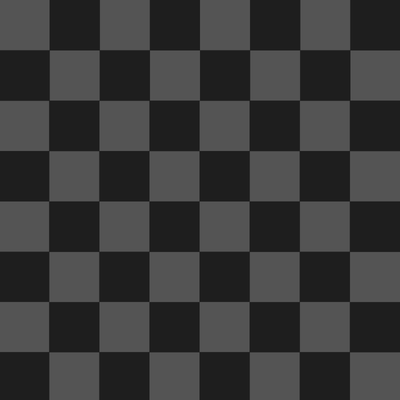
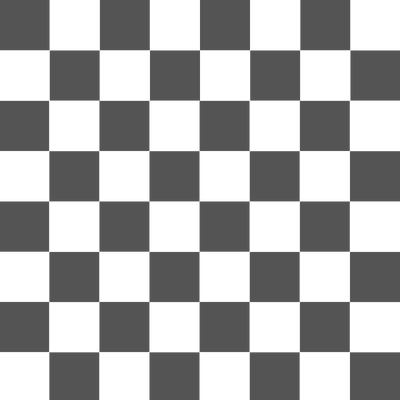
POTENTIAL BACKGROUND

diff --git a/src/components/chess-background/chess-background.script.js b/src/components/chess-background/chess-background.script.js
@@ -1,0 +1,84 @@
+const images_pieces_names = [
+    'pawn_b',
+    'pawn_w',
+    'knight_b',
+    'knight_w',
+    'bishop_b',
+    'bishop_w',
+    'rook_b',
+    'rook_w',
+    'king_b',
+    'king_w',
+    'queen_b',
+    'queen_w'
+];
+const fallingPieces = [];
+
+var load_images = [];
+
+export const init = (canvas) => {
+    for (let i = 0; i < 10; i++) {
+        fallingPieces.push(createPiece(canvas));
+    }
+}
+
+export const preloadAllImages = async () => {
+    try {
+        const images = await Promise.all(images_pieces_names.map(name => loadImage(`src/assets/chess-background-pieces/${name}.png`)));
+        load_images = images
+    } catch (err) {
+        console.error("One or more images failed to load:", err)
+    }
+};
+
+export const loadImage = (src) => {
+    return new Promise((resolve, reject) => {
+        const img = new Image()
+        img.crossOrigin = "Anonymous"
+        img.onload = () => resolve(img)
+        img.onerror = () => reject(new Error(`Failed to load: ${src}`))
+        img.src = src
+    });
+}
+
+export const createPiece = (canvas) => {
+
+    const image_index = Math.floor(Math.random() * load_images.length)
+    const image = load_images[image_index]
+
+    return {
+        x: Math.random() * canvas.width,
+        y: -50,
+        speed: 0.5 + Math.random() * 0.5,
+        size: 30 + Math.random() * 30,
+        image: image,
+        opacity: 0.5 + Math.random() * 0.5,
+    };
+}
+
+export const draw = async (canvas, ctx) => {
+  ctx.clearRect(0, 0, canvas.width, canvas.height);
+
+  for (let p of fallingPieces) {
+
+    ctx.globalAlpha = p.opacity
+    ctx.drawImage(p.image, p.x, p.y, p.size, p.size)
+    ctx.globalAlpha = 1.0
+
+    p.y += p.speed;
+
+    if (p.y > canvas.height) {
+      Object.assign(p, await createPiece(canvas));
+      p.y = -30;
+    }
+  }
+
+  requestAnimationFrame(() => draw(canvas, ctx));
+}
+
+export const addResizeListener = (canvas) => {
+    window.addEventListener('resize', () => {
+        canvas.width = window.innerWidth;
+        canvas.height = window.innerHeight;
+    });
+}

diff --git a/src/components/chess-background/chess-background.script_2.js b/src/components/chess-background/chess-background.script_2.js
@@ -1,0 +1,49 @@
+export const characters = [
+    '0',
+    '1'
+];
+export const fallingCharacters = [];
+
+export const init = (canvas) => {
+    for (let i = 0; i < 50; i++) {
+        fallingCharacters.push(createCharacter(canvas));
+    }
+}
+
+export const createCharacter = (canvas) => {
+    return {
+        x: Math.random() * canvas.width,
+        y: -30,
+        speed: 0 + Math.random() * 1,
+        size: 24 + Math.random() * 16,
+        character: characters[Math.floor(Math.random() * characters.length)],
+        opacity: 0 + Math.random() * 0.5,
+      };
+}
+
+export const draw = (canvas, ctx) => {
+  ctx.clearRect(0, 0, canvas.width, canvas.height);
+
+  for (let p of fallingCharacters) {
+
+    ctx.font = `${p.size}px Poppins`;
+    ctx.fillStyle = `rgba(0, 181, 0, ${p.opacity})`;
+    ctx.fillText(p.character, p.x, p.y);
+
+    p.y += p.speed;
+
+    if (p.y > canvas.height) {
+      Object.assign(p, createCharacter(canvas));
+      p.y = -30;
+    }
+  }
+
+  requestAnimationFrame(() => draw(canvas, ctx));
+}
+
+export const addResizeListener = (canvas) => {
+    window.addEventListener('resize', () => {
+        canvas.width = window.innerWidth;
+        canvas.height = window.innerHeight;
+    });
+}

diff --git a/src/components/chess-background/chess-background.component.jsx b/src/components/chess-background/chess-background.component.jsx
@@ -1,0 +1,28 @@
+import './chess-background.style.scss'
+import { draw, addResizeListener, init, preloadAllImages } from './chess-background.script.js'
+import { useEffect, useRef } from 'react';
+
+function ChessBackground() {
+
+    const canvasbackground = useRef(null)
+
+    useEffect(() => {
+        const canvas = canvasbackground.current;
+        if(canvas) {
+            canvas.width = window.innerWidth;
+            canvas.height = window.innerHeight;
+            preloadAllImages().then(() => {
+                init(canvas)
+                addResizeListener(canvas)
+                draw(canvas, canvas.getContext('2d'))
+            })
+        }
+    }, [canvasbackground])
+
+    return(
+        <canvas className="chess-background__container-canva" ref={canvasbackground}></canvas>
+    )
+
+}
+
+export default ChessBackground

diff --git a/src/components/sections/cover/cover.component.jsx b/src/components/sections/cover/cover.component.jsx
@@ -1,10 +1,12 @@
 import './cover.style.scss'
 import Me from '../../me/me.component'
+import ChessBackground from '../../chess-background/chess-background.component'
 
 function Cover() {
 
     return(
         <div className="cover__container" id="cover">
+            <ChessBackground />
             <label className="cover__container-title">Full Stack Web Developer</label>
             <label className="cover__container-name">Christopher Serna Flores</label>
             <Me />

diff --git a/src/styles/global.scss b/src/styles/global.scss
@@ -12,6 +12,16 @@
   color: var(--text-color);
   
   width: 100%;
+
+  ::-webkit-scrollbar {
+    width: 8px;
+    height: 8px;
+  }
+
+  ::-webkit-scrollbar-thumb {
+    background-color: #ffffff44;
+    border-radius: 6px;
+  }
 }
 
 html {

diff --git a/src/components/chess-background/chess-background.style.scss b/src/components/chess-background/chess-background.style.scss
@@ -1,0 +1,10 @@
+.chess-background__container-canva {
+    position: absolute;
+    top: 0;
+    left: 0;
+    width: 99vw;
+    height: 100vh;
+    display: block;
+    z-index: -1;
+    overflow: hidden;
+}

diff --git a/src/components/chess-background/index.js b/src/components/chess-background/index.js
@@ -1,0 +1,3 @@
+export * from './chess-background.component.jsx'
+export * from './chess-background.style.scss'
+export * from './chess-background.script.js'

diff --git a/src/components/index.js b/src/components/index.js
@@ -1,3 +1,4 @@
 export * from './cover'
 export * from './me'
 export * from './menu'
+export * from './chess-background'
